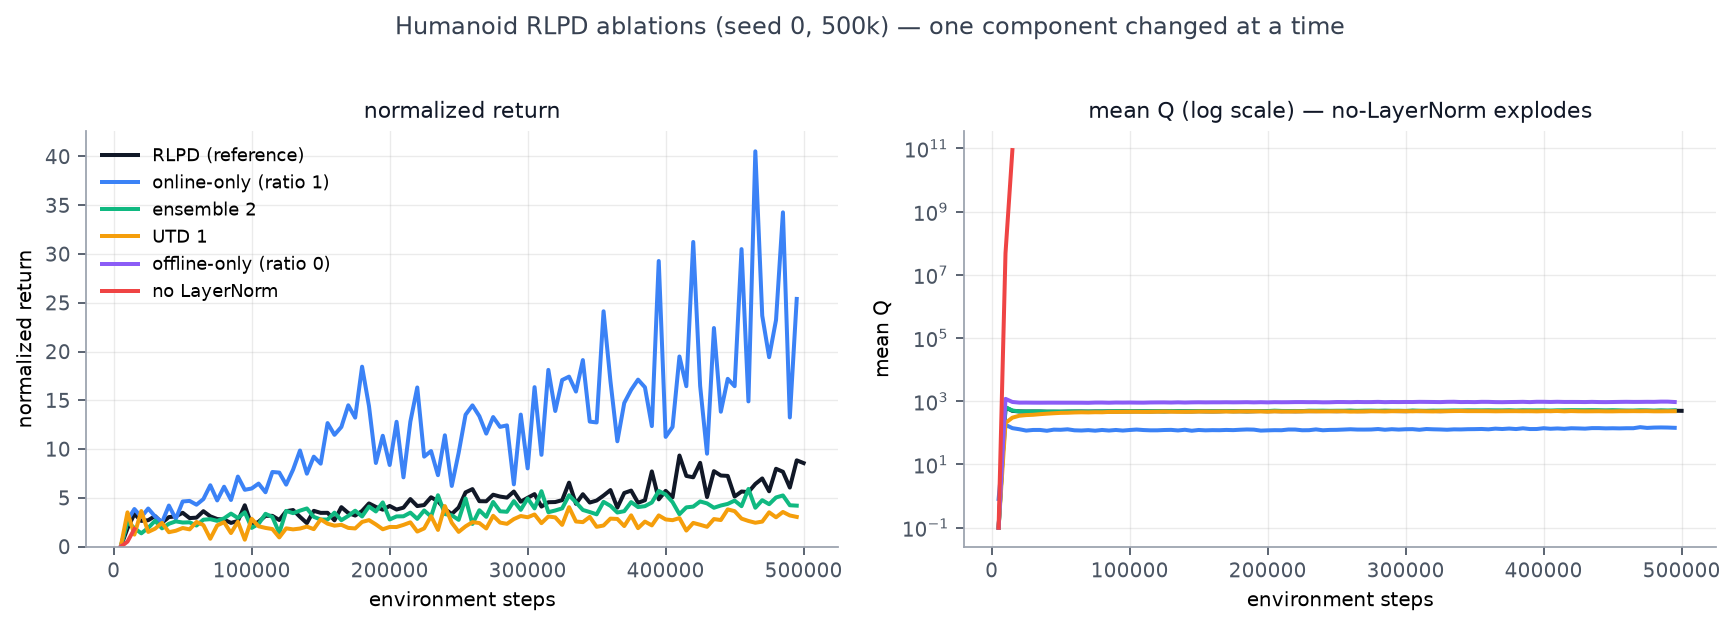
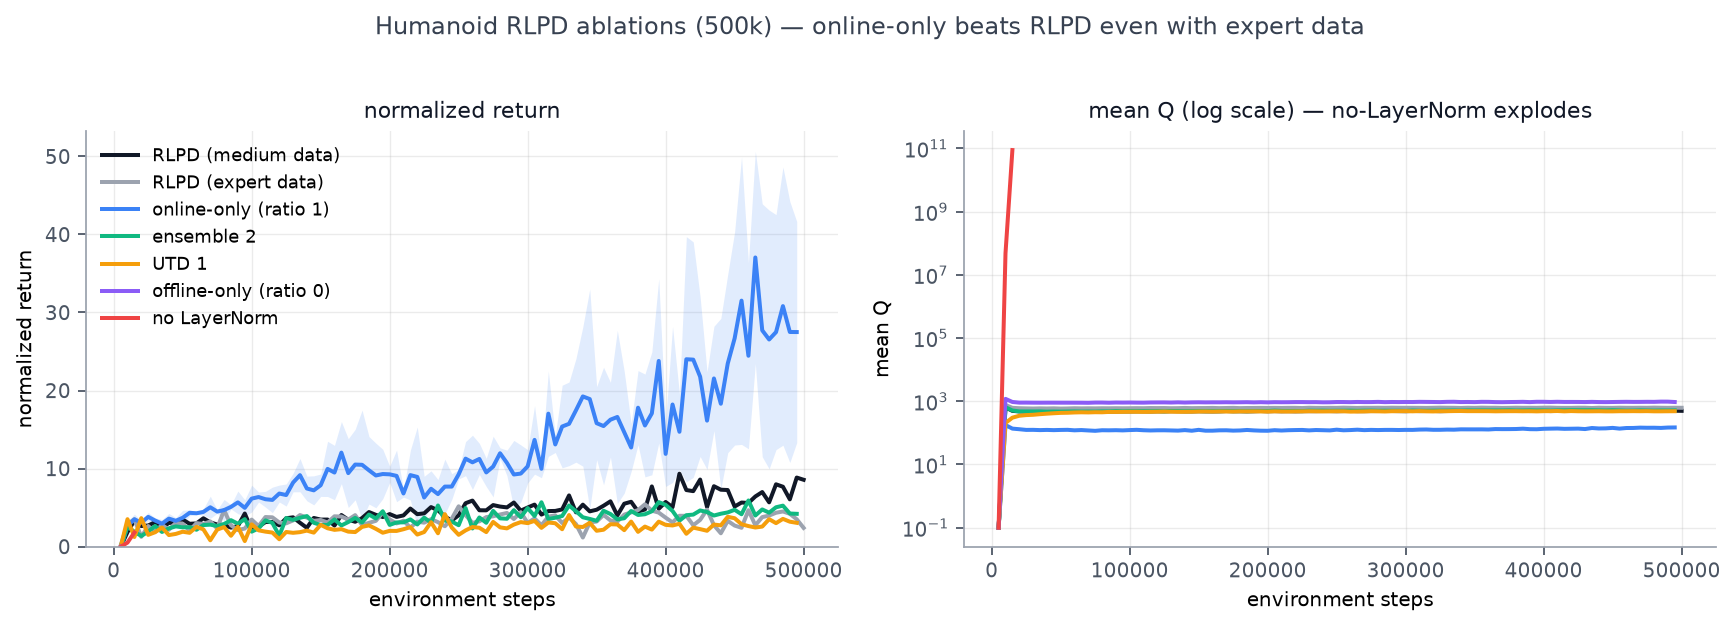
docs: confirm online-only Humanoid result with 3 seeds and an expert-data RLPD comparison

diff --git a/plotting/make_readme_figures.py b/plotting/make_readme_figures.py
@@ -171,13 +171,23 @@ def humanoid_figure(df: pd.DataFrame, outdir: Path) -> Path:
 def ablations_figure(df: pd.DataFrame, outdir: Path) -> Path:
     h = df[(df["env"] == "Humanoid") & (df["quality"] == "medium")]
     fig, (ax_r, ax_q) = plt.subplots(1, 2, figsize=(11, 3.8))
-    fig.suptitle("Humanoid RLPD ablations (seed 0, 500k) — one component changed at a time",
+    fig.suptitle("Humanoid RLPD ablations (500k) — online-only beats RLPD even with expert data",
                  fontsize=11, color="#374151", y=1.02)
+    # base RLPD (medium, seed 0) reference + expert-data RLPD, both truncated to the ablation budget
+    refs = [("RLPD (medium data)", "#111827", h[(h["setting"] == "RLPD") & (h["seed"] == 0)]),
+            ("RLPD (expert data)", "#9ca3af",
+             df[(df["env"] == "Humanoid") & (df["setting"] == "RLPD") & (df["quality"] == "expert")
+                & (df["seed"] == 0)])]
+    for label, colour, sub in refs:
+        sub = sub[sub["env_step"] <= ABLATION_BUDGET]
+        _plot(ax_r, sub, "return_normalized", colour, label)
+        cq = _curve(sub, "mean_q")
+        if not cq.empty:
+            ax_q.plot(cq["env_step"], cq["mean"].clip(lower=1e-1), color=colour, linewidth=1.8)
     for setting, (label, colour) in ABLATIONS.items():
-        if setting == "RLPD":  # matched-seed reference, truncated to the ablation budget
-            sub = h[(h["setting"] == "RLPD") & (h["seed"] == 0) & (h["env_step"] <= ABLATION_BUDGET)]
-        else:
-            sub = h[h["setting"] == setting]
+        if setting == "RLPD":
+            continue  # handled by refs above
+        sub = h[h["setting"] == setting]
         _plot(ax_r, sub, "return_normalized", colour, label)
         cq = _curve(sub, "mean_q")
         if not cq.empty:

diff --git a/README.md b/README.md
@@ -138,14 +138,16 @@ RLPD reference at the matched step (last-5-eval normalized = 7.2).
 | offline-only (ratio 0) | −7.9 | online interaction is essential; medium data alone ≈ random |
 | UTD 1 | −4.0 | high UTD (20) buys sample efficiency |
 | ensemble 2 | −2.6 | the 10-critic ensemble helps value estimation |
-| online-only (ratio 1) | **+15.9** | **beats the 50/50 mix** — see below |
+| online-only (ratio 1) | **+20 (3 seeds)** | **beats the mix, even vs RLPD-expert** — see below |
 
 Three of four confirm the paper's design (LayerNorm ≫ UTD > ensemble; offline-only fails). The
-surprise is **online-only**: dropping the offline data entirely — leaving high-UTD SAC + LayerNorm +
-ensemble, a REDQ-like online learner — *beats* the 50/50 RLPD mix on Humanoid-medium (raw return
-2,263 vs 857 at 500k). The medium offline data appears to drag the policy toward medium behaviour
-rather than help. **Single seed**, so the +15.9 is the one result here that still needs 2–3 seeds
-before it becomes a claim.
+surprise is **online-only**, now confirmed across 3 seeds (normalized 23 / 45 / 16 → **28 ± 15**):
+dropping the offline data entirely — leaving high-UTD SAC + LayerNorm + ensemble, a REDQ-like online
+learner — beats the 50/50 RLPD mix by a wide margin. To rule out RLPD simply being handicapped by
+*medium* data, we ran RLPD on the **expert** dataset to the full 1M — it stayed flat at ~4 normalized,
+no better than medium (~8) and ~7× below online-only. So on Humanoid the offline data does not help
+RLPD at any quality; pure online learning wins, most likely because the offline distribution (medium
+or expert) is too far from what the online policy actually visits.
 
 ## Method
 
@@ -244,7 +246,7 @@ results/            per-run eval CSVs (+ *.DIVERGED.txt notes)
 - [x] Minari v5 normalization (replacing the D4RL constants)
 - [x] **Humanoid-v5** — 3 seeds at 1M (RLPD 13 · IQL 70 · SACfD diverged on 2/3)
 - [x] Component ablations — symmetric ratio · LayerNorm · ensemble size · UTD (Humanoid, seed 0)
-- [ ] Confirm the online-only (ratio 1) Humanoid result on seeds 1–2
+- [x] Confirmed online-only (ratio 1) on 3 seeds + a full RLPD-expert Humanoid comparison
 - [ ] Expert-dataset runs for seeds 1–2 (stopped at 57.5k; seed 0 only at the full horizon)
 - [ ] HumanoidStandup
 